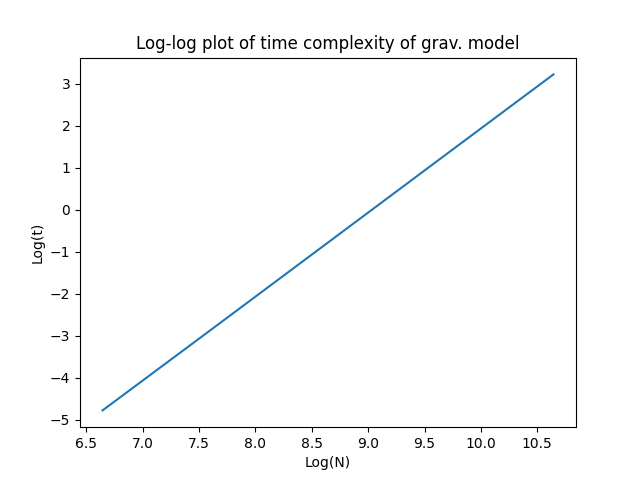
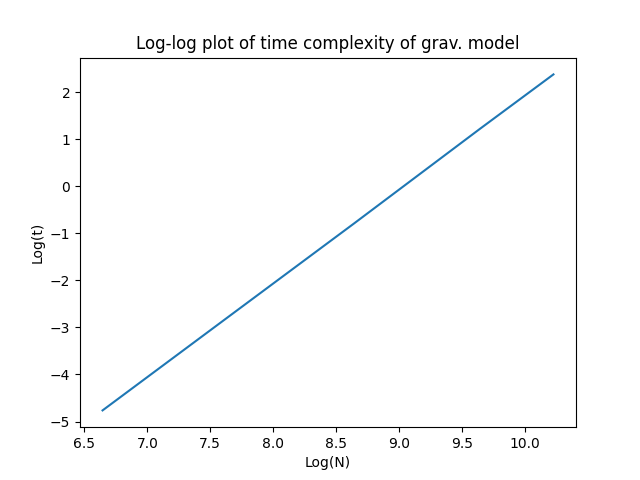
Solved problem 1 and added README instructions to get it running locally

diff --git a/problem1/part_a/bench_nbody.py b/problem1/part_a/bench_nbody.py
@@ -6,7 +6,7 @@ import numpy as np
 from gravitational_force import direct_nbody_force
 
 # Initialize arrays
-N = np.array([100, 200, 400, 800, 1600])
+N = np.array([100, 200, 400, 800, 1200])
 time_complexities = np.zeros(5)
 
 # Iterate over n's

diff --git a/problem1/part_b/big_o.md b/problem1/part_b/big_o.md
@@ -1,0 +1,7 @@
+# Derivation of the Efficiency of my Gravitational Force Function
+
+The efficiency of the naive solution to the problem of computing gravitational forces for every pair interaction can be depicted by the worst-case scenario–every pair interacts equally and no pairs can be omitted.
+
+Using this worst case, we can see that _every_ mass must be evaluated once against _every_ other mass in space (except for itself). Using a double for-loop over the same mass array, we can see that we iterate over $N^2$ interactions. Technically, we actually only perform the force calculation $N \cdot (N - 1)$ times since masses don't interact with themselves, gravitationally. However as we evaluate that expression in the limit as N approaches infinity, the $N^2$ term grows _much_ faster than the $N$ term ($N \cdot (N - 1) = N^2 - N$).
+
+According to the laws of physics, a nice optimization may be made by using Newton's Third Law–every interaction is equal and opposite the reaction experienced by the other mass in space. In a future development, this would reduce time complexity from $O(N^2)$ to $\sum_{k=0}^{k=N} (N-k-1)$.

diff --git a/README.md b/README.md
@@ -1,2 +1,13 @@
 # phys-cs-hw01-wright
-Homework set 1
+
+## Problem 1
+
+### Setup
+
+1. Create a python venv with `python -m venv env`
+2. Activate the `venv` and install dependencies with `source env/bin/activate && pip install -r requirements.txt`
+3. Run the benchmark program with `cd problem1/part_a && python bench_nbody.py` – see the generated log-log plot generated as a PNG image file. The numerical values of the fitted line are also printed to the console upon completion of the program in both the linear form and the asymptotic formula demonstrating that time complexity approaches $O(N^2)$ when $N$ is large.
+
+## Problem 2
+
+
